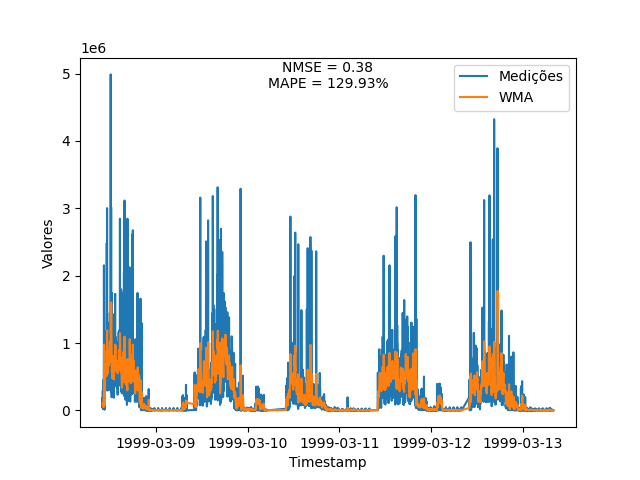
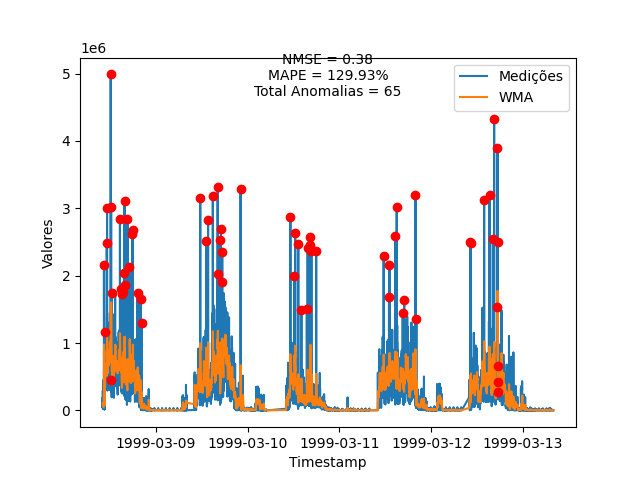
inclusão da verificação de anomalias

diff --git a/códigos/graph.py b/códigos/graph.py
@@ -1,22 +1,26 @@
 import matplotlib.pyplot as plt
-import wma as wma
 import matplotlib.dates as mdates
-import metricas
 
-dados = wma.gera_xy() #chama a função do arquivo wma que gera e retorna os dados para o grafico
-NMSE = metricas.cal_nmse()
-MAPE = metricas.cal_mape()
+def geraGrafico(dados, NMSE, MAPE):
+    fig, graph = plt.subplots()
 
-fig, graph = plt.subplots()
+    graph.plot(dados[0], dados[1], label='Medições', zorder=1) #eixo x = timestamp e eixo y = medições padrão
+    graph.plot(dados[0], dados[2], label='WMA', zorder=1) #eixo x = timestamp e eixo y = wma com base nas ultimas 10 medições anteriores
 
-graph.plot(dados[0], dados[1], label='Medições') #eixo x = timestamp e eixo y = medições padrão
-graph.plot(dados[0], dados[2], label='WMA') #eixo x = timestamp e eixo y = wma com base nas ultimas 10 medições anteriores
+    graph.legend()
+    graph.set_xlabel('Timestamp')
+    graph.set_ylabel('Valores')
+    
+    x_pontos = []
+    y_pontos = []
+    for i in dados[3]:
+        x_pontos.append(dados[0][i])
+        y_pontos.append(dados[1][i])
 
-graph.legend()
-graph.set_xlabel('Timestamp')
-graph.set_ylabel('Valores')
+    plt.scatter(x_pontos, y_pontos, color='red', label='Pontos', zorder=2)
 
-graph.text(0.5, 0.95, f'NMSE = {NMSE}\nMAPE = {MAPE}%', horizontalalignment='center', verticalalignment='center', transform=graph.transAxes)
+    total_anomalias = len(dados[3])
+    graph.text(0.5, 0.95, f'NMSE = {NMSE}\nMAPE = {MAPE}%\nTotal Anomalias = {total_anomalias}', horizontalalignment='center', verticalalignment='center', transform=graph.transAxes)
 
-plt.savefig('grafico.png')
-plt.show() #gera o grafico
+    plt.savefig('grafico.png')
+    plt.show() #gera o grafico

diff --git a/códigos/wma.py b/códigos/wma.py
@@ -1,5 +1,6 @@
 import json
 import datetime
+import deteccaoAnomalias
 
 # Abre o arquivo JSON
 with open('fullData.json') as arquivo:
@@ -23,8 +24,9 @@ def gera_list_wma():
         if len(aux_list) <= 10:
             aux_list.append(int(dados[key]["total_len"]))
             if len(aux_list) == 10:
-                soma = sum(aux_list)
-                list_wma.append(cal_wma(aux_list))
+                #soma = sum(aux_list)
+                calculoWma = cal_wma(aux_list)
+                list_wma.append(calculoWma)
                 aux_list.pop(0)
     return list_wma
    
@@ -33,10 +35,11 @@ def gera_xy():
     list_timestamp = []
     list_len = []
     list_wma = gera_list_wma()
-    formato = "%Y-%m-%d %H:%M:%S"
+    #formato = "%Y-%m-%d %H:%M:%S"
     for key in dados.keys():
         dt = datetime.datetime.fromtimestamp(int(key))
         list_timestamp.append(dt)
         list_len.append(dados[key]["total_len"])
-    return list_timestamp, list_len, list_wma
+    listaAnomalias = deteccaoAnomalias.anomalia(list_len, list_wma)
+    return list_timestamp, list_len, list_wma, listaAnomalias
 

diff --git a/códigos/deteccaoAnomalias.py b/códigos/deteccaoAnomalias.py
@@ -1,0 +1,38 @@
+import statistics
+
+# peguntas
+# vamos calcular o desvio padrão de qual lista??
+# da diferença de um ponto para o outro?
+# da lista normal 
+# da lista de wma
+
+
+def anomalia(listaReal, listaWMA):
+    posicaoAnomalia = []
+    desvioPadrao = statistics.stdev(listaWMA)*3
+
+    for i in range(0, len(listaReal)):
+        if listaReal[i] > listaWMA[i]:
+            dif = listaReal[i] - listaWMA[i]
+        else:
+            dif = listaWMA[i] - listaReal[i]
+        
+        if dif > desvioPadrao:
+            posicaoAnomalia.append(i)
+            # print("anomalia")
+        # else:
+            # print("normal")
+    return posicaoAnomalia
+
+
+# def anomaliaSimples(valorReal, valorEsperado, listaWMA):
+#     desvioPadrao = statistics.stdev(listaWMA)*3
+#     if valorReal > valorEsperado:
+#         dif = valorReal - valorEsperado
+#     else:
+#         dif = valorEsperado - valorReal
+    
+#     if dif > desvioPadrao:
+#         print("anomalia")
+#     else:
+#         print("normal")

diff --git a/códigos/main.py b/códigos/main.py
@@ -1,0 +1,9 @@
+import wma
+import metricas
+import graph
+
+dados = wma.gera_xy() #chama a função do arquivo wma que gera e retorna os dados para o grafico
+NMSE = metricas.cal_nmse()
+MAPE = metricas.cal_mape()
+
+graph.geraGrafico(dados, NMSE, MAPE)
